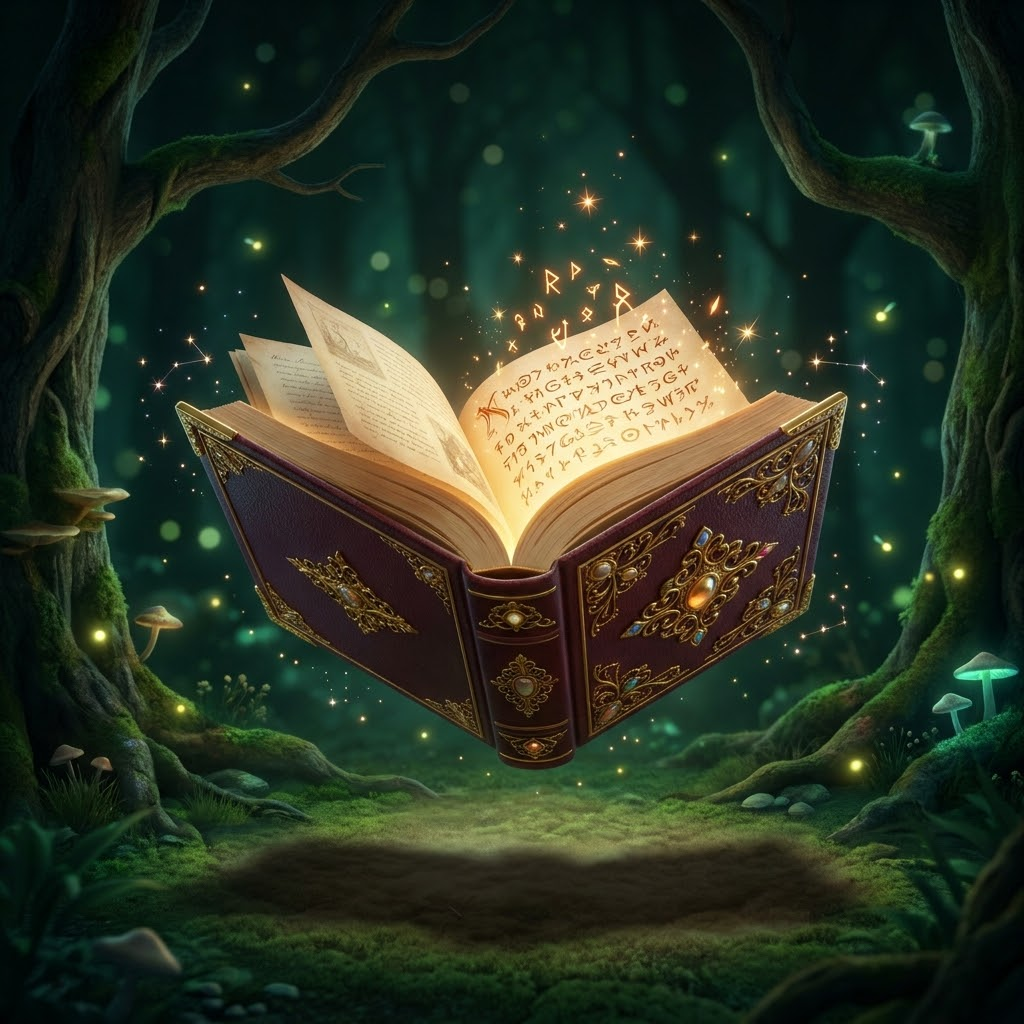
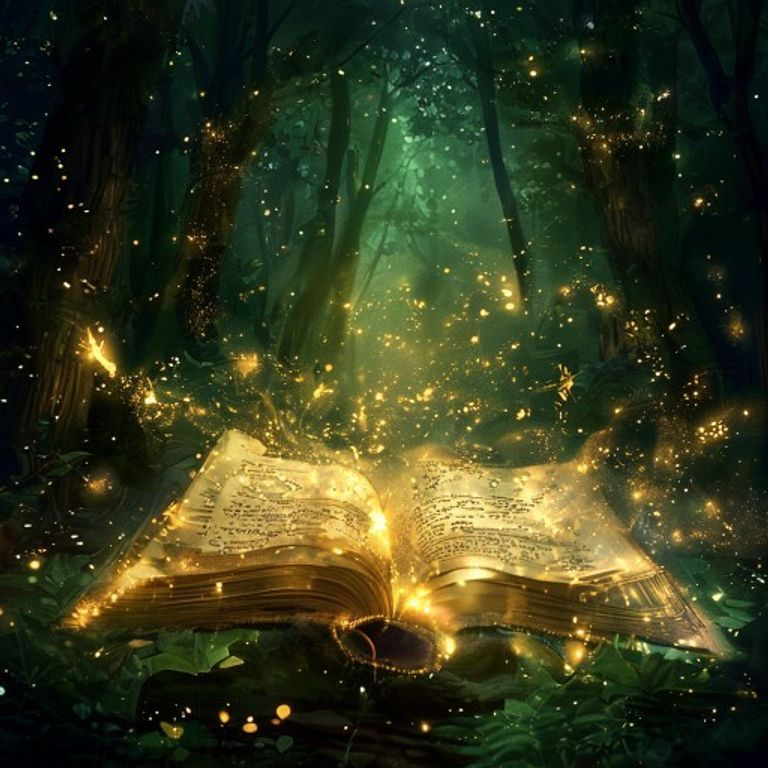
fix: 8 UI/UX improvements across mobile and desktop
- Remove hero subtitle h2, make subtitle larger/brighter for visual balance
- CTA button scrolls to wizard form instead of random generation
- Add tagline under logo in mobile header, remove LangSwitcher from mobile header
- Move LangSwitcher to footer (better UX standard placement)
- Rename "малыша" -> "ребёнка" in child name label
- Replace broken hero-fairy.jpg (was a dog), generate real fairy image
- Replace magic-book.jpg with clean image (no "book in book" artifact)
- Change loading screen title to "Ваша сказка создаётся..." (no child name)
- Improve story prompt: add style references (Сутеев, Усачев, Киплинг, Волков), ban robot-like constructions
- Add anatomy safeguards to imagePrompt template (two arms, no extra limbs)

diff --git a/app/api/generate/route.ts b/app/api/generate/route.ts
@@ -10,19 +10,19 @@ function getAgeProfile(ageStr: string) {
   const n = parseInt(ageStr) || 0
   if (n <= 4) return {
     words: '380–460',
-    style: 'Предложения 4–8 слов. Только знакомые слова. Много повторений и ритма. Конкретные образы без абстракций. Как будто рассказываешь малышу сидя рядом.',
+    style: 'Ориентир: Сутеев, Андрей Усачев. Предложения 4–7 слов — короткие, ёмкие, как маленькие шажки. Только знакомые слова. Ритм и повторы ("Шаг, ещё шажок. Вот так."). Конкретные образы: не "испугался", а "в животике стало холодно". Диалоги живые, без объяснений. Никаких вводных оборотов типа "Нужно сказать, что...".',
   }
   if (n <= 6) return {
     words: '520–640',
-    style: 'Предложения 8–12 слов. 1–2 новых слова объяснены через контекст. Ритм и напевность важны. Много чувственных деталей.',
+    style: 'Ориентир: Киплинг (Маугли), Свен Нурдквист (Петсон и Финдус), собачка Соня. Предложения 8–12 слов с живым ритмом. 1–2 новых слова объяснены через действие. Много деталей: запахи, звуки, текстуры. Диалоги с характером — персонажи говорят по-разному. Без сухих итогов и нравоучений.',
   }
   if (n <= 9) return {
     words: '700–840',
-    style: 'Полноценные литературные предложения. Внутренние монологи героя. Метафоры и сравнения. Эмоциональная нюансировка.',
+    style: 'Ориентир: Евгения Чернышова, Киплинг. Полноценные литературные предложения с внутренним монологом героя. Метафоры и сравнения через бытовое ("страх был как мокрый свитер — тяжёлый и липкий"). Эмоциональная нюансировка. Несколько точек зрения.',
   }
   return {
     words: '900–1080',
-    style: 'Насыщенный литературный язык. Сложные переплетённые эмоции. Глубокие метафоры. Несколько персонажей. Моральная неоднозначность.',
+    style: 'Ориентир: Александр Волков (Волшебник Изумрудного города). Насыщенный литературный язык, сложные переплетённые эмоции. Глубокие метафоры. Несколько персонажей с характерами. Моральная неоднозначность — добро даётся через усилие.',
   }
 }
 
@@ -67,12 +67,19 @@ function buildRuPrompt(p: PromptParams): string {
 
 ОБЯЗАТЕЛЬНЫЕ ПРАВИЛА:
 - Текст сказки — обычный текст БЕЗ какой-либо markdown-разметки. Никаких **звёздочек**, _подчёркиваний_, #заголовков или других символов форматирования
-- Тон: тёплый, нежный, обволакивающий — как голос любящего родителя перед сном
+- Тон: тёплый, живой, как голос любящего родителя — не лектора
 - Сенсорные детали в каждой сцене: запахи, звуки, тактильные ощущения
 - Эмоция названа явно хотя бы раз: "это называлось [эмоция]" или "это был [страх/злость/...]"
-- Минимум один живой диалог в каждой сцене
+- Минимум один живой диалог в каждой сцене — персонажи говорят коротко и по-своему
 - Ноль нравоучений в лоб — только через образ и поступок
 - Взрослые и волшебные персонажи НЕ спасают — герой справляется сам
+
+ЗАПРЕЩЕНО (признаки роботизированного текста):
+- Вводные обороты: "Нужно сказать, что...", "Следует отметить...", "Дело в том, что...", "Таким образом..."
+- Перечисления через точку с запятой или нумерованные списки внутри текста
+- Абстрактные формулировки вместо конкретных образов ("испытал страх" вместо "ноги стали ватными")
+- Прямые резюме типа "И понял герой, что..." — только действие, не вывод
+- Слово в слово повторять ситуацию из запроса — переводи в метафору и образ
 
 СЮЖЕТНАЯ МЕХАНИКА ДЛЯ ЭТОЙ ТЕМЫ:
 ${p.scenarioHint}
@@ -83,11 +90,11 @@ ${p.scenarioHint}
   "scenes": [
     {
       "text": "Сцена 1: шаги 1–4. Узнаваемый герой, появление проблемы, называние эмоции, встреча с помощником.",
-      "imagePrompt": "cute ${p.hero} character looking worried in an enchanted magical forest, cinematic warm lighting, detailed background"
+      "imagePrompt": "cute ${p.hero} character [ОПИСАНИЕ КОНКРЕТНОГО ДЕЙСТВИЯ ИЗ СЦЕНЫ], enchanted magical forest, warm cinematic lighting, watercolor storybook illustration, correct anatomy, exactly two arms, no extra limbs, child-friendly, detailed background"
     },
     {
       "text": "Сцена 2: шаги 5–7. Герой находит ресурс, делает шаг, момент трансформации, тёплый финал.",
-      "imagePrompt": "happy confident ${p.hero} character in a glowing magical clearing, golden sunlight, triumphant mood"
+      "imagePrompt": "cute ${p.hero} character [ОПИСАНИЕ КОНКРЕТНОГО ДЕЙСТВИЯ ИЗ СЦЕНЫ], golden magical clearing, warm sunlight, watercolor storybook illustration, correct anatomy, exactly two arms, no extra limbs, child-friendly, triumphant joyful mood"
     }
   ],
   "discussion": [
@@ -144,11 +151,11 @@ Return ONLY valid JSON, no markdown, no \`\`\`json wrapper:
   "scenes": [
     {
       "text": "Scene 1: steps 1–4. Relatable hero, problem emerges, emotion named, meets helper.",
-      "imagePrompt": "cute ${p.hero} character looking worried in an enchanted magical forest, cinematic warm lighting, detailed background"
+      "imagePrompt": "cute ${p.hero} character [DESCRIBE THE SPECIFIC ACTION FROM THIS SCENE], enchanted magical forest, warm cinematic lighting, watercolor storybook illustration, correct anatomy, exactly two arms, no extra limbs, child-friendly, detailed background"
     },
     {
       "text": "Scene 2: steps 5–7. Hero finds resource, takes step, transformation moment, warm ending.",
-      "imagePrompt": "happy confident ${p.hero} character in a glowing magical clearing, golden sunlight, triumphant mood"
+      "imagePrompt": "cute ${p.hero} character [DESCRIBE THE SPECIFIC ACTION FROM THIS SCENE], golden magical clearing, warm sunlight, watercolor storybook illustration, correct anatomy, exactly two arms, no extra limbs, child-friendly, triumphant joyful mood"
     }
   ],
   "discussion": [

diff --git a/app/[locale]/page.tsx b/app/[locale]/page.tsx
@@ -225,13 +225,14 @@ function SiteFooter() {
     <footer className="print:hidden" style={{background:'#0a1f14',borderTop:'1px solid rgba(255,255,255,0.06)'}}>
       <div className="max-w-[900px] mx-auto px-6 py-5 flex flex-col md:flex-row justify-between items-center gap-3">
         <div className="italic text-sm font-bold" style={{fontFamily:'Literata,Georgia,serif',color:'rgba(255,255,255,0.5)'}}>{t('logo')}</div>
-        <div className="flex flex-wrap justify-center gap-x-5 gap-y-1">
+        <div className="flex flex-wrap justify-center gap-x-5 gap-y-1 items-center">
           <a href={locale === 'en' ? '/en/privacy' : '/privacy'} className="text-xs hover:opacity-80 transition-opacity" style={{color:'rgba(255,255,255,0.35)'}}>
             {t('privacy')}
           </a>
           <a href="mailto:gigor92@gmail.com" className="text-xs hover:opacity-80 transition-opacity" style={{color:'rgba(255,255,255,0.35)'}}>
             {t('contact')}
           </a>
+          <LangSwitcher/>
         </div>
         <p className="text-xs" style={{color:'rgba(255,255,255,0.25)'}}>{t('copy')}</p>
       </div>
@@ -543,13 +544,17 @@ function CreateForm({onGenerate,isLoading,onOpenLibrary,onShowAuth,onShowProfile
             {/* eslint-disable-next-line @next/next/no-img-element */}
             <img src="/wizard/hero-fox.jpg" alt="" aria-hidden
               style={{width:24,height:24,borderRadius:'50%',objectFit:'cover',objectPosition:'center 20%',border:'1.5px solid rgba(255,255,255,0.35)',flexShrink:0}}/>
-            <span className="italic drop-shadow-md whitespace-nowrap" style={{fontFamily:'Literata,Georgia,serif',fontSize:17,fontWeight:700,color:'#fff',
-              textShadow:'0 0 16px rgba(212,145,42,0.55), 0 0 32px rgba(212,145,42,0.2)'}}>
-              {t('nav.logo')}
-            </span>
+            <div className="flex flex-col gap-0">
+              <span className="italic drop-shadow-md whitespace-nowrap" style={{fontFamily:'Literata,Georgia,serif',fontSize:17,fontWeight:700,color:'#fff',
+                textShadow:'0 0 16px rgba(212,145,42,0.55), 0 0 32px rgba(212,145,42,0.2)'}}>
+                {t('nav.logo')}
+              </span>
+              <span style={{fontSize:9,fontWeight:500,color:'rgba(255,255,255,0.38)',letterSpacing:'0.07em'}}>
+                {t('nav.tagline')}
+              </span>
+            </div>
           </a>
           <div className="flex items-center gap-2">
-            <LangSwitcher/>
             <button onClick={onOpenLibrary} className="cursor-pointer" style={{color:'white',background:'rgba(255,255,255,0.15)',backdropFilter:'blur(8px)',border:'1px solid rgba(255,255,255,0.25)',padding:'7px',borderRadius:999,lineHeight:0}}>
               <span className="material-symbols-outlined" style={{fontSize:20}}>menu_book</span>
             </button>
@@ -572,17 +577,14 @@ function CreateForm({onGenerate,isLoading,onOpenLibrary,onShowAuth,onShowProfile
         <div className="absolute bottom-0 left-0 right-0 h-[65%] bg-gradient-to-b from-transparent via-[rgba(10,31,20,0.6)] to-[rgba(10,31,20,0.98)] pointer-events-none"/>
         {/* Text block — anchored to bottom */}
         <div className="absolute bottom-0 left-0 right-0 z-10 flex flex-col items-center text-center px-6 md:px-12 pb-8 md:pb-10">
-          <h1 className="text-[28px] md:text-[46px] leading-tight font-bold text-white mb-1.5 tracking-tight" style={{fontFamily:'Literata,Georgia,serif'}}>
+          <h1 className="text-[30px] md:text-[46px] leading-tight font-bold text-white mb-4 tracking-tight" style={{fontFamily:'Literata,Georgia,serif'}}>
             {t('hero.h1')}
           </h1>
-          <h2 className="text-[17px] md:text-[24px] italic text-white/75 mb-3 max-w-sm md:max-w-xl" style={{fontFamily:'Literata,Georgia,serif'}}>
-            {t('hero.h2')}
-          </h2>
-          <p className="text-white/55 text-[13px] md:text-[15px] max-w-xs md:max-w-lg mb-5 leading-relaxed">
+          <p className="text-white/75 text-[15px] md:text-[17px] max-w-xs md:max-w-lg mb-6 leading-relaxed">
             {t('hero.subtitle')}
           </p>
-          <button type="button" onClick={handleRandom} disabled={isLoading}
-            className="px-7 py-3 md:py-3.5 rounded-full font-bold text-[14px] md:text-[15px] tracking-wide shadow-[0_0_30px_rgba(164,103,19,0.4)] hover:scale-105 transition-all flex items-center gap-2 mb-3 disabled:opacity-50 cursor-pointer"
+          <button type="button" onClick={()=>document.getElementById('wizard-form')?.scrollIntoView({behavior:'smooth'})}
+            className="px-7 py-3 md:py-3.5 rounded-full font-bold text-[14px] md:text-[15px] tracking-wide shadow-[0_0_30px_rgba(164,103,19,0.4)] hover:scale-105 transition-all flex items-center gap-2 mb-3 cursor-pointer"
             style={{background:'#a46713',color:'#fff'}}>
             ✨ {t('hero.cta')}
           </button>
@@ -660,7 +662,7 @@ function CreateForm({onGenerate,isLoading,onOpenLibrary,onShowAuth,onShowProfile
       </section>
 
       {/* ══ SECTION 2 — WIZARD FORM ══ */}
-      <section className="relative w-full py-16 md:py-20 overflow-hidden flex flex-col items-center" style={{background:'#0d2b1e'}}>
+      <section id="wizard-form" className="relative w-full py-16 md:py-20 overflow-hidden flex flex-col items-center" style={{background:'#0d2b1e'}}>
         {/* Background: bokeh + more fireflies + star particles */}
         <div className="absolute inset-0 pointer-events-none overflow-hidden">
           <div className="bokeh w-96 h-96 top-[-100px] left-[-100px]" style={{background:'#1a4a34'}}/>
@@ -1185,7 +1187,7 @@ function LoadingScreen({ childName }: { childName?: string }) {
       {/* UI — absolute bottom */}
       <div className="absolute bottom-0 left-0 right-0 flex flex-col items-center text-center px-6 pb-8 gap-4">
         <h1 style={{fontFamily:'Literata,Georgia,serif',fontSize:28,fontWeight:700,color:'#f9f9f7',lineHeight:1.2}}>
-          {childName ? t('title', {name: childName}) : t('titleGeneric')}
+          {t('titleGeneric')}
         </h1>
 
         <div className="flex justify-center gap-2 w-full">
